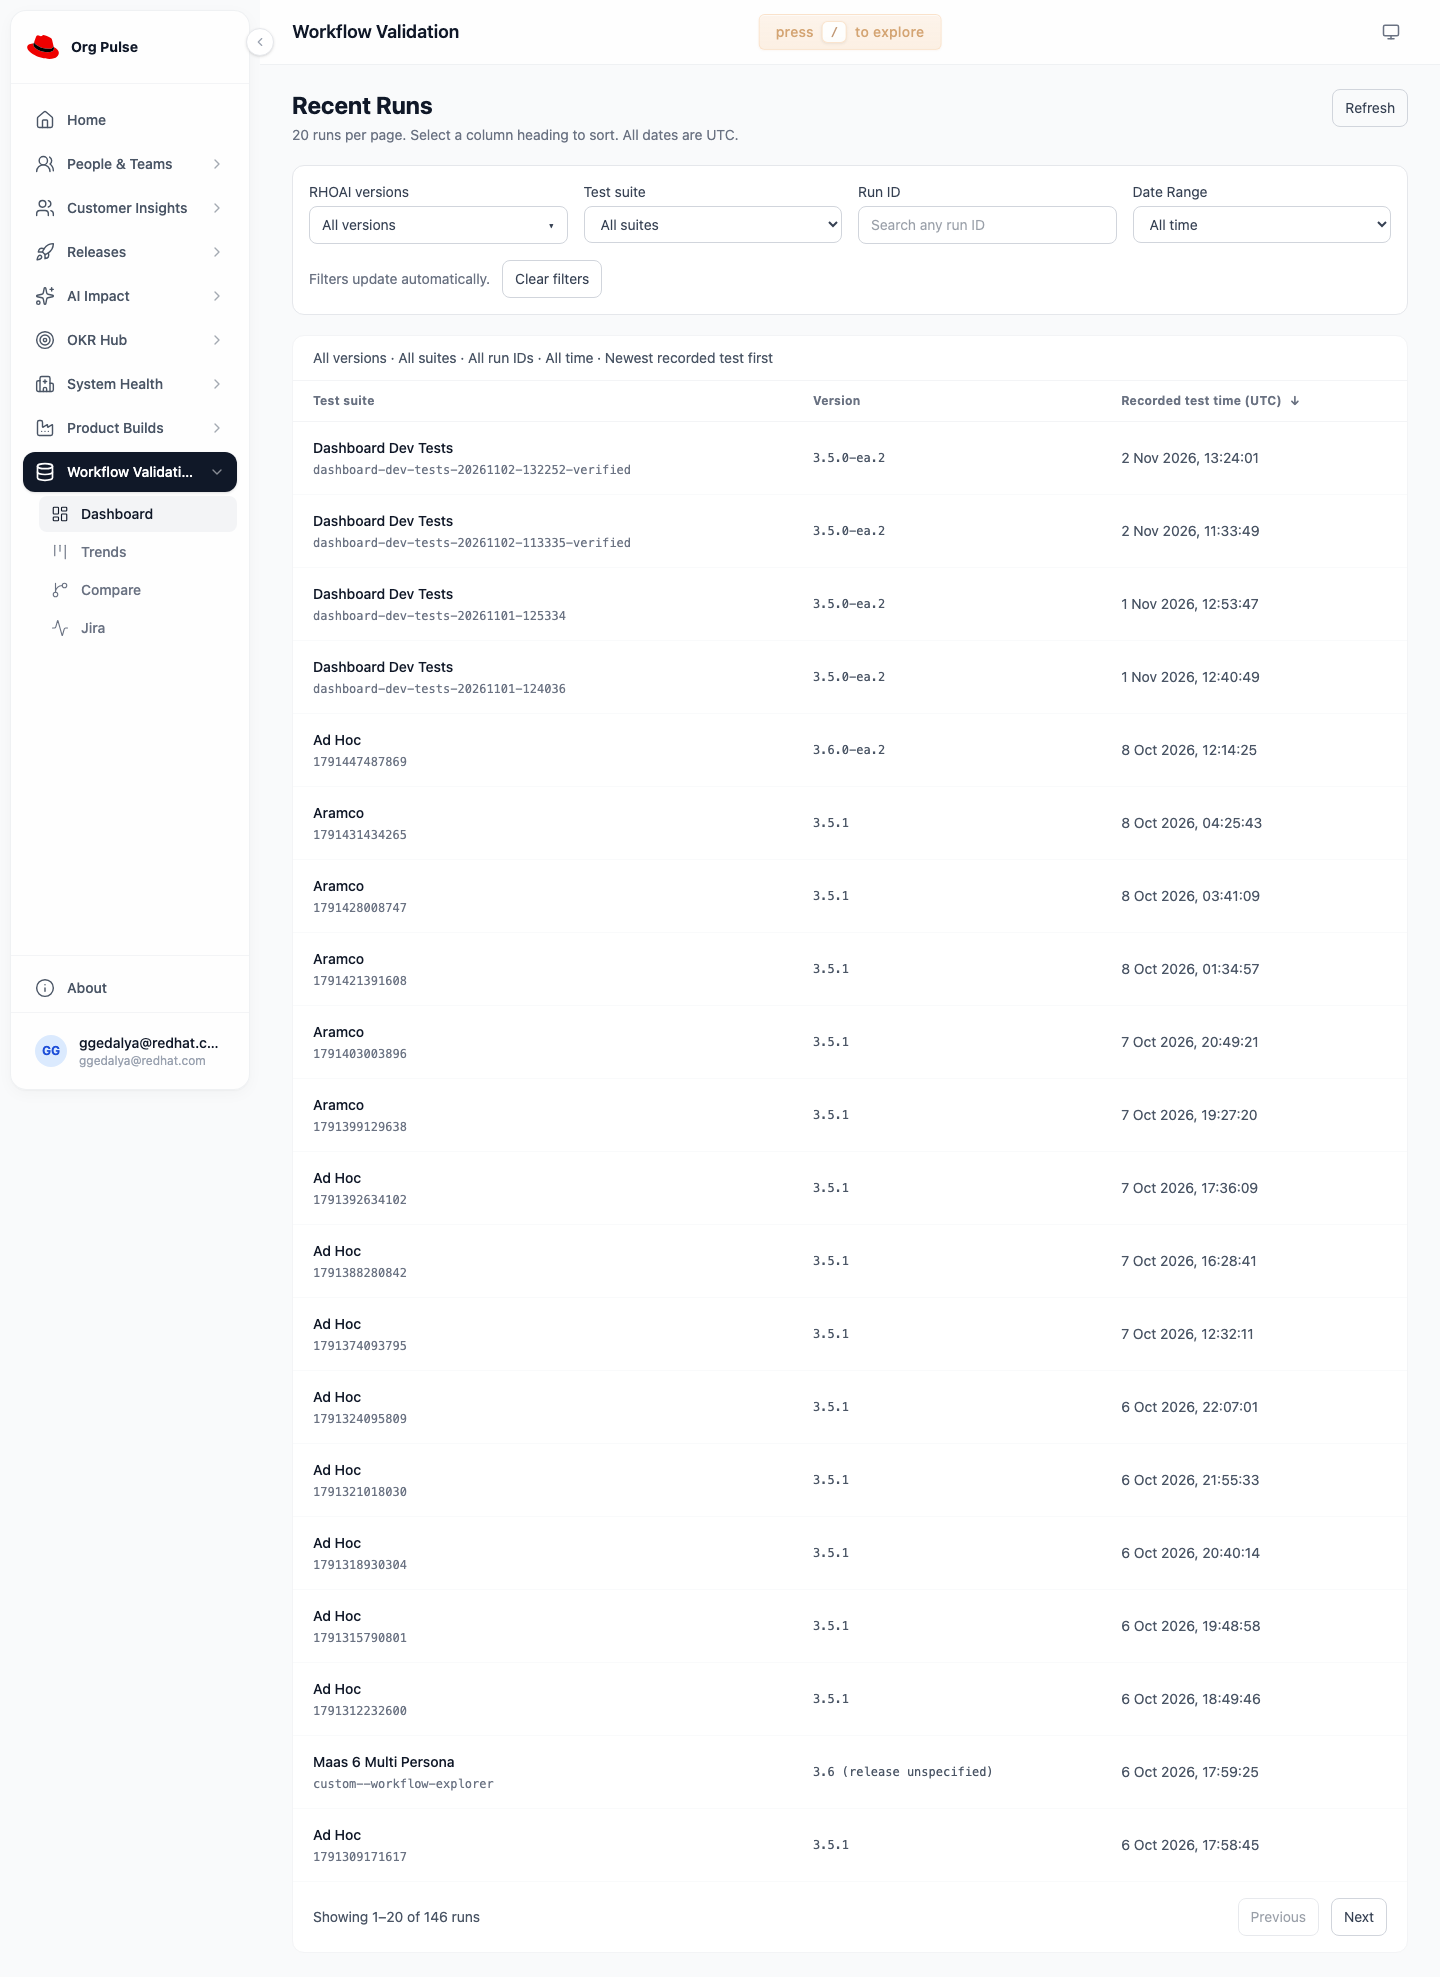
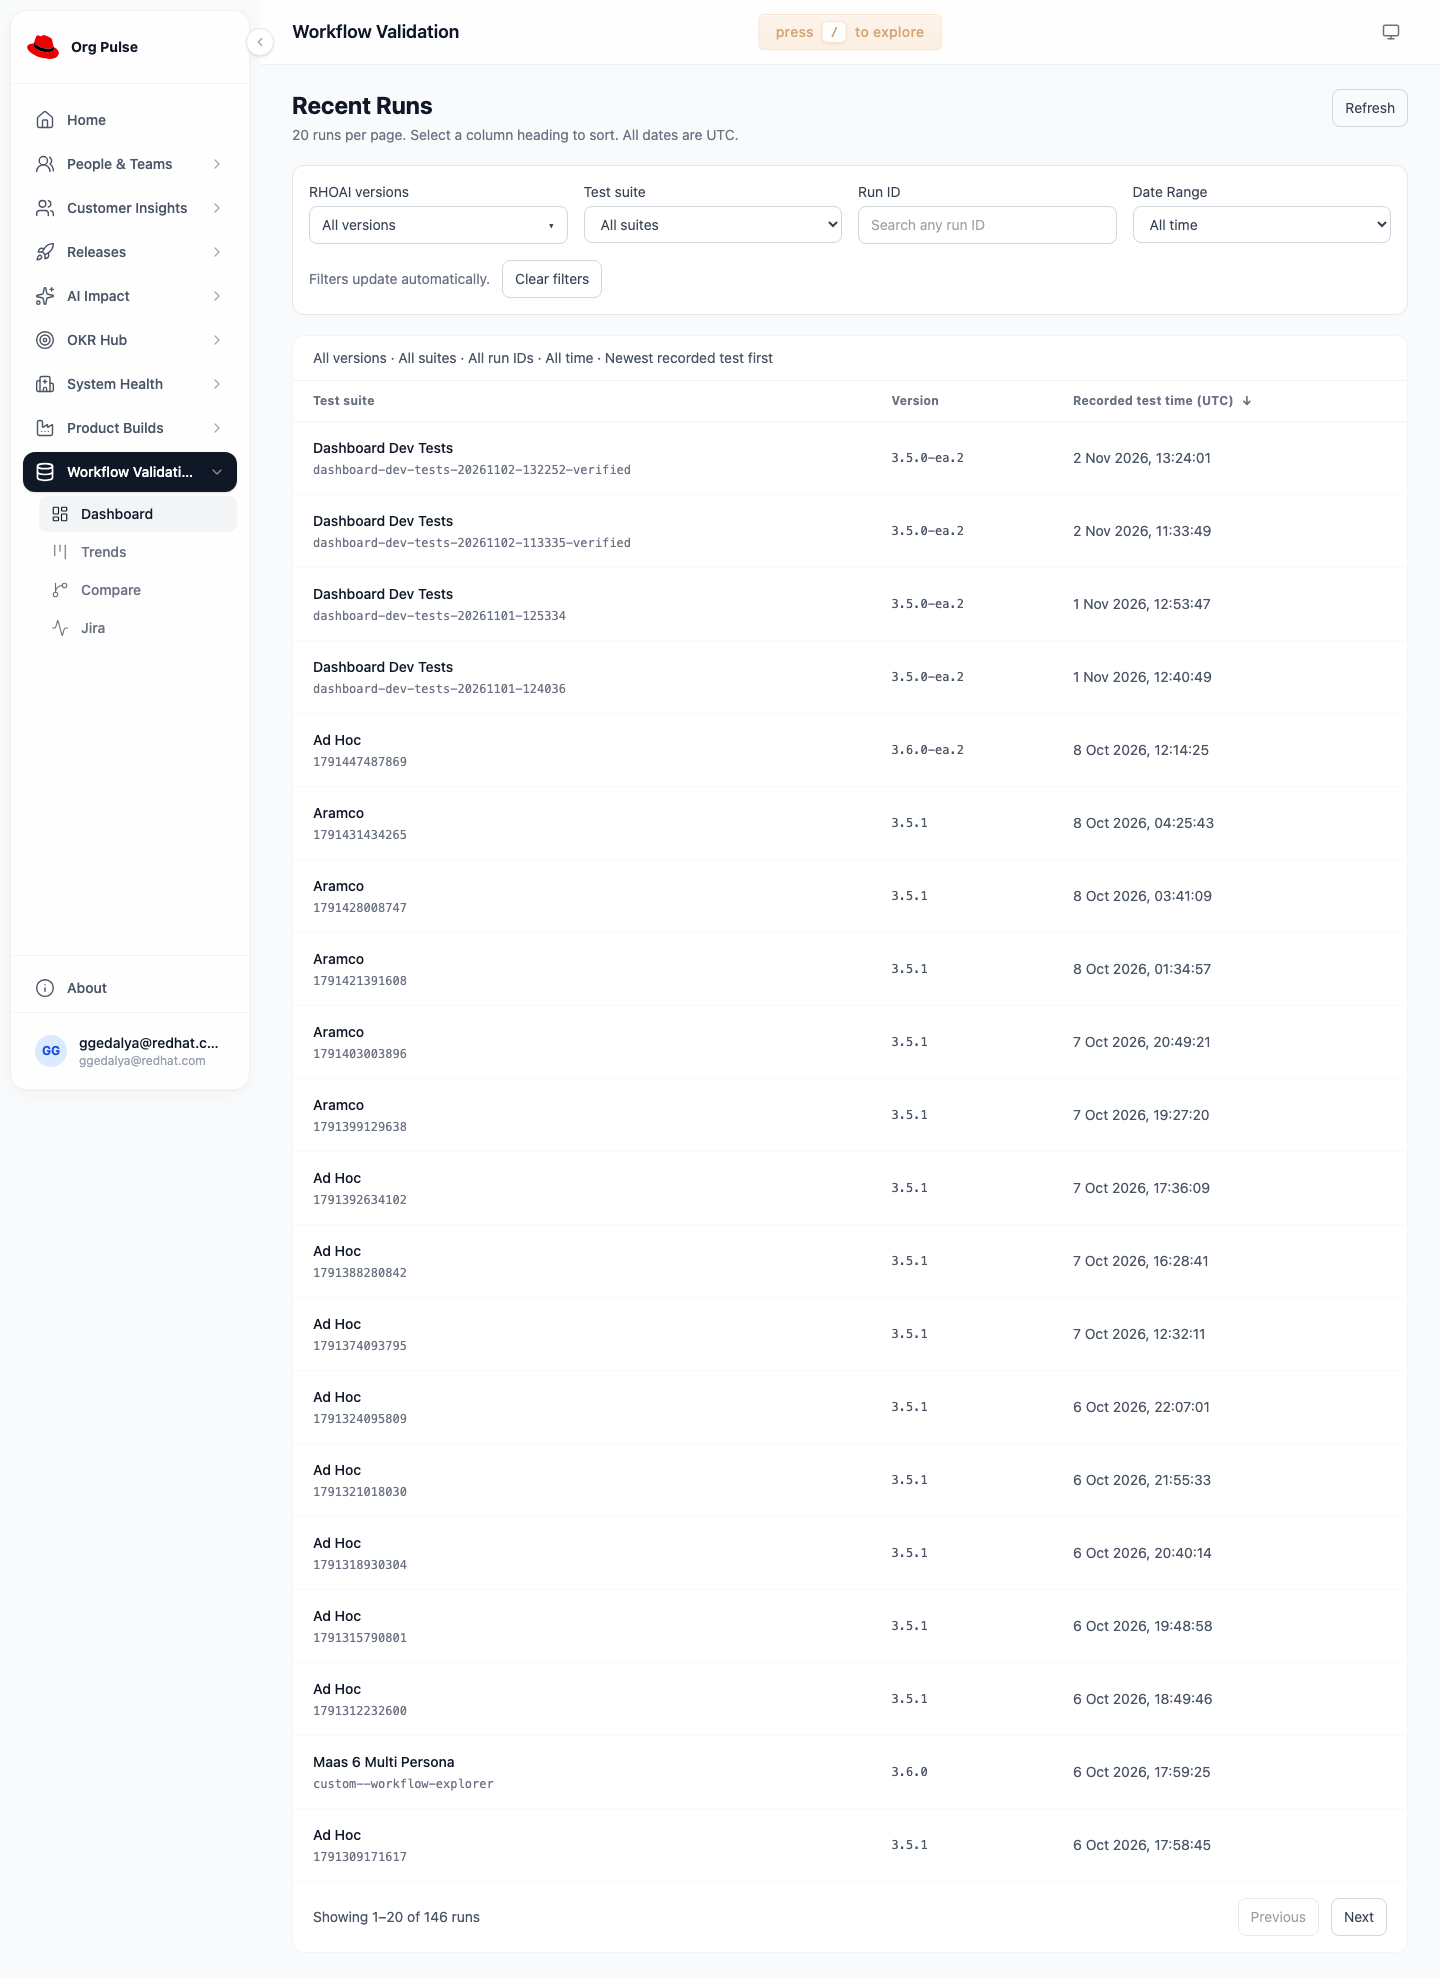
docs(workflow-validation): refresh 3.6.0 preview evidence

diff --git a/modules/workflow-validation/docs/rhai-20044-recent-runs-ux.md b/modules/workflow-validation/docs/rhai-20044-recent-runs-ux.md
@@ -33,15 +33,15 @@ This rule applies to Recent Runs; it does not rewrite OpenSearch documents.
 
 ## Verification
 
-Source `0092440c` passes 6,781 unit tests (11 skipped), including 160 module
-tests. All 31 browser integration tests pass through the existing shared CI
+Source `3b8bf8b9` passes 6,781 unit tests (11 skipped), including 160 module
+tests. All 32 browser integration tests pass through the existing shared CI
 entrypoint. Lint, module/OpenAPI validation, the standard production build, and
 the compatible GPUaaS frontend build pass.
 
 Both preview images are deployed and ready. The backend source and served
 frontend assets match the build. Read-only API checks traverse all 146 groups
 across eight pages in each of the six sort orders. Checks also cover multiple
-versions, release-aware version choices, earlier page bookmarks, Refresh,
+versions, the `3.6`/`3.6.0` alias, release-aware version choices, earlier page bookmarks, Refresh,
 UTC dates, filters beyond page one, and cursor scope validation. The baseline
 counts remain 712 executions, 4,157 tasks, and 184 root causes. Run metadata and
 runtime settings are unchanged. Previous image references are saved for rollback.
